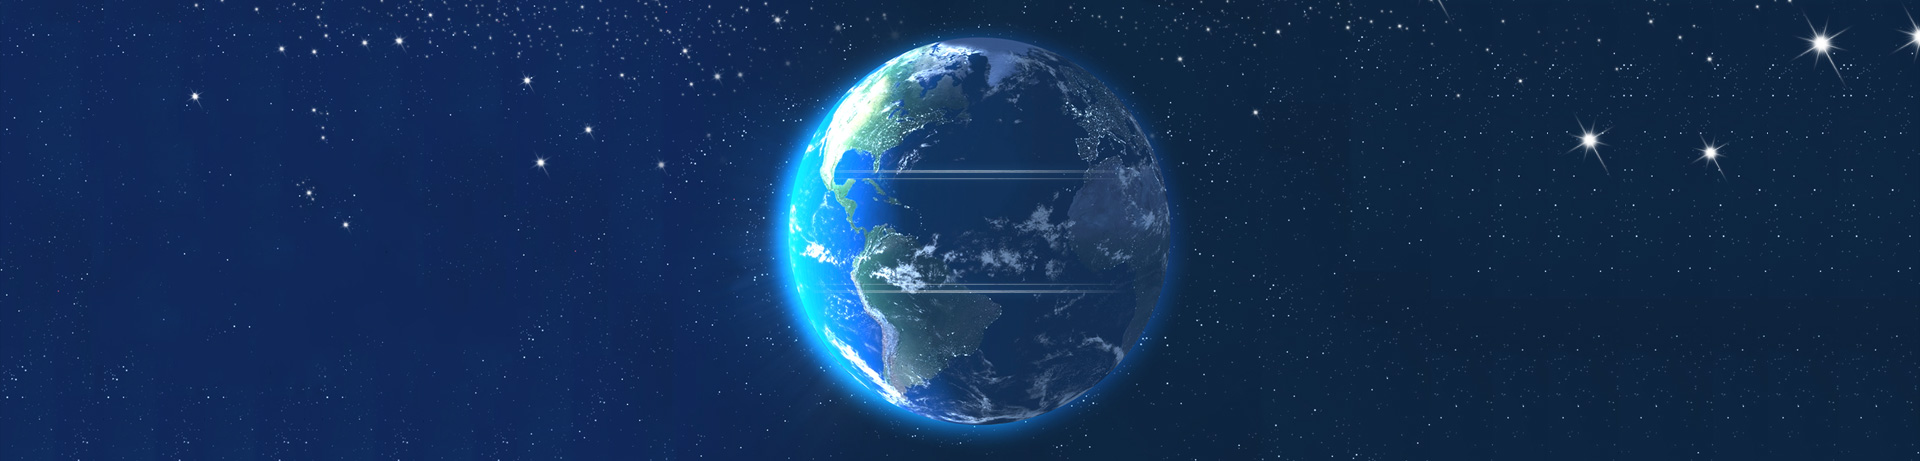
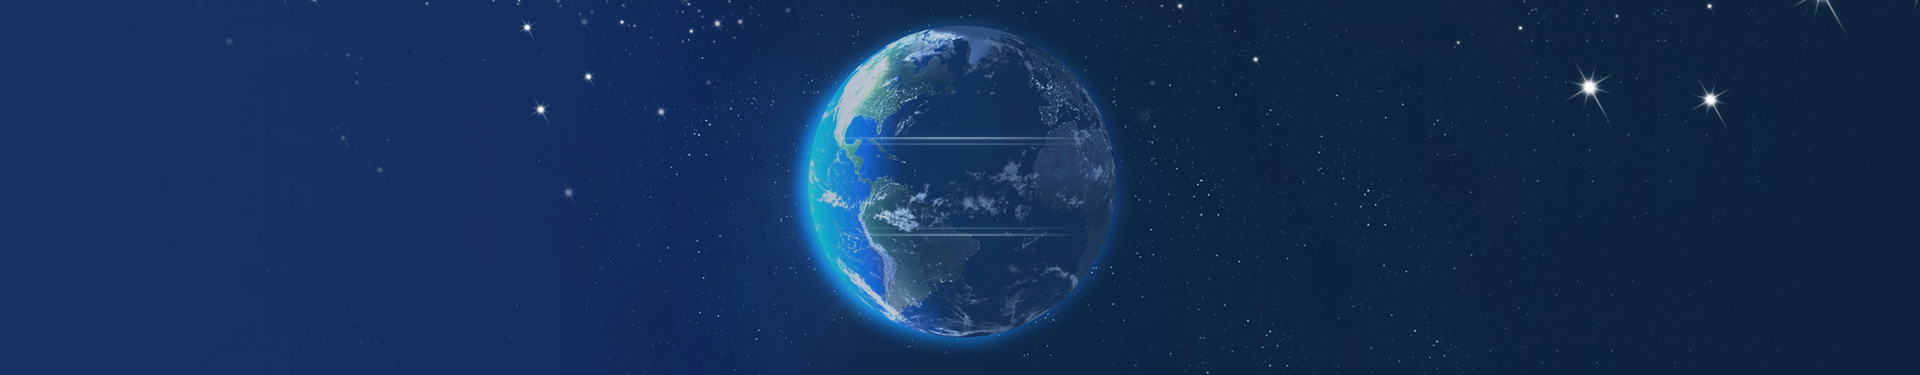
前端网站样式调整；内容及栏目的第二排序规则为创建时间降序

diff --git a/src/SumStar/SumStar/Content/Site.css b/src/SumStar/SumStar/Content/Site.css
@@ -28,17 +28,12 @@ td.right-align {
 }
 
 .navbar-logo {
-	min-height: 95px;
-}
-
-.logo {
-	width: 161px;
-	height: 95px;
-	background: url("images/logo.jpg") no-repeat center center;
+	margin-top: -15px;
+	min-height: 63px;
 }
 
 .nav > li.logo-right {
-	padding-top: 25px;
+	padding-top: 20px;
 }
 
 	.nav > li.logo-right > a {
@@ -80,7 +75,7 @@ td.right-align {
 	}
 
 #content-header {
-	height: 461px;
+	height: 375px;
 	background: url("images/bg-content-header.jpg") no-repeat center center;
 }
 
@@ -89,7 +84,7 @@ td.right-align {
 		font-size: 48px;
 		font-weight: bolder;
 		text-align: center;
-		line-height: 461px;
+		line-height: 375px;
 		margin-top: 0;
 	}
 

diff --git a/src/SumStar/SumStar/Services/ContentService.cs b/src/SumStar/SumStar/Services/ContentService.cs
@@ -37,7 +37,7 @@ namespace SumStar.Services
 			predicate = categories.Aggregate(predicate, (current, c) => current.Or(i => i.CategoryId == c.Id));
 
 			var query = from content in _dbContext.Contents
-						orderby content.DisplayOrder descending
+						orderby content.DisplayOrder descending, content.CreateTime descending
 						select content;
 			// 分页处理
 			pageSize = (pageSize ?? 20);
@@ -60,7 +60,7 @@ namespace SumStar.Services
 			predicate = categories.Aggregate(predicate, (current, c) => current.Or(i => i.CategoryId == c.Id));
 
 			var query = from content in _dbContext.ArticleContents
-						orderby content.DisplayOrder descending
+						orderby content.DisplayOrder descending, content.CreateTime descending
 						select content;
 			// 分页处理
 			pageSize = (pageSize ?? 15);
@@ -94,7 +94,7 @@ namespace SumStar.Services
 			}
 			var query = from content in _dbContext.Contents
 						where content.CategoryId == categoryId
-						orderby content.DisplayOrder
+						orderby content.DisplayOrder, content.CreateTime descending
 						select content;
 			return query.Take(1).SingleOrDefault();
 		}

diff --git a/src/SumStar/SumStar/Services/CategoryService.cs b/src/SumStar/SumStar/Services/CategoryService.cs
@@ -26,7 +26,7 @@ namespace SumStar.Services
 		{
 			var query = from category in _dbContext.Categories
 						where category.ParentId == categoryId
-						orderby category.DisplayOrder
+						orderby category.DisplayOrder descending, category.CreateTime descending
 						select new BootstrapTreeNode
 						{
 							Text = category.Name,
@@ -50,7 +50,7 @@ namespace SumStar.Services
 		{
 			var query = from category in _dbContext.Categories
 						where category.ParentId == categoryId
-						orderby category.DisplayOrder
+						orderby category.DisplayOrder descending, category.CreateTime descending
 						select new ZTreeNode
 						{
 							Id = category.Id,
@@ -71,7 +71,7 @@ namespace SumStar.Services
 		{
 			var query = from category in _dbContext.Categories
 						where category.ParentId == categoryId
-						orderby category.DisplayOrder
+						orderby category.DisplayOrder descending, category.CreateTime descending
 						select category;
 			IList<Category> categories = query.ToList();
 			if (!recursive)
